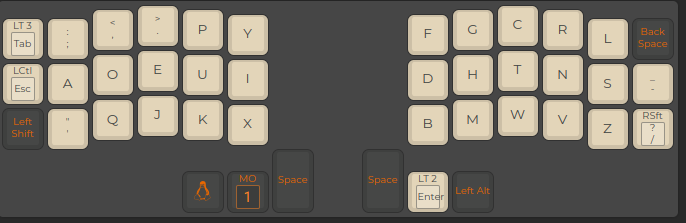
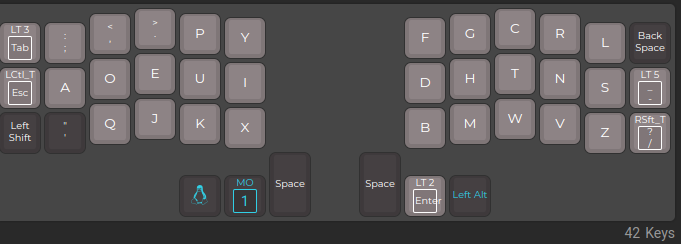
Update layers images

diff --git a/README.md b/README.md
@@ -54,3 +54,7 @@ Now it is time to install it, you can follow the same tutorial from [Setup](#set
 ### ADJUST
 
 ![alt text](images/layers/4.png)
+
+### MOUSE
+
+![alt text](images/layers/5.png)
